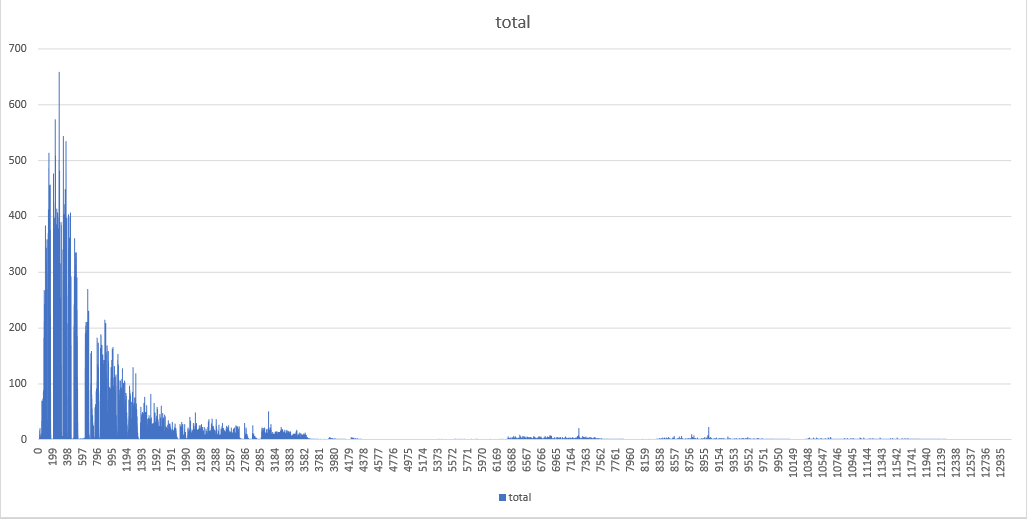
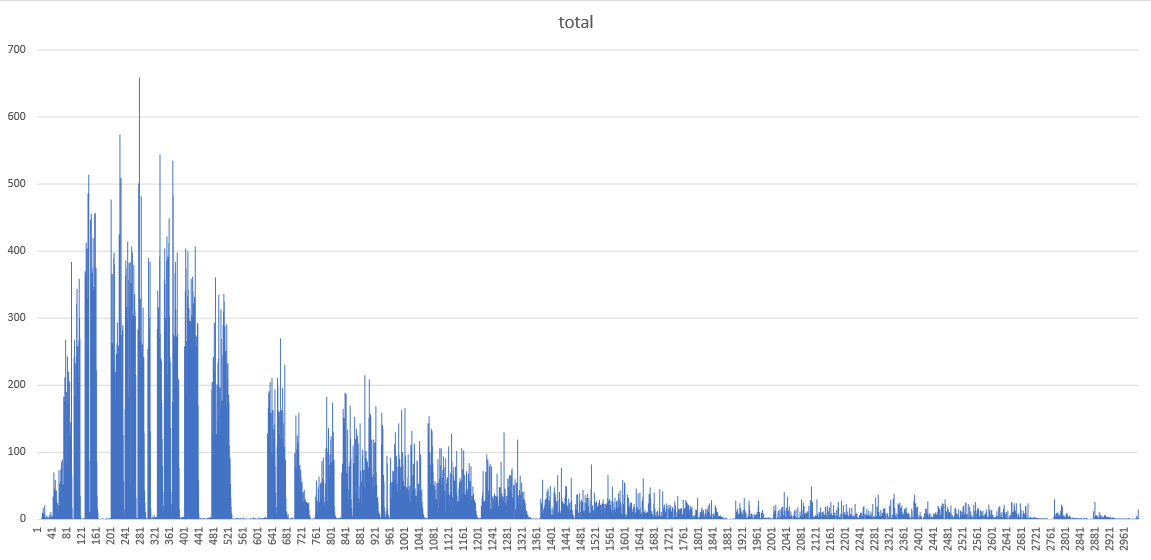
Update on Overleaf.

diff --git a/sections/evaluation.tex b/sections/evaluation.tex
@@ -8,11 +8,93 @@ The graph database was occupying one of the 5 worker nodes, using a special tain
 
 The remaining implementations, e.g. Jenkins, the crawler and the proxy were all scheduled across the remaining 4 nodes.
 
-\todo{write more about what was done, e.g. crawled for two weeks, analyzed for 2 weeks. (cralwed whole range from 0 to 384kb)}
+The byte range of 0 bytes to 384.000 bytes were crawled within two weeks and no additional crawling was done afterwards, meaning the results are purely from one run, which covered all possible bytes that GitHub allows. The analysis took another two weeks and was done after the two weeks of crawling the results to not overload the graph database. The reasoning for this will be explained further down below.
 
 Considering the crawler implementation one can compare the total amount of available "docker-compose" files that the GitHub API provides to the total amount the crawlers have crawled. As already described in the contribution about the crawler \todo{add reference to chapter}, the GitHub API has some limitations that affect the implementation as well. While providing a horizontally scaleable solution, which is only limited by the amount of GitHub tokens supplied, the GitHub API still has some nowhere described complications. This thesis and included test execution were all done under the terms of the GitHub Terms of Services, which states that the crawling of public data is only allowed for scientific works and require the results to be public \todo{quote TOS}. The TOS also states that the usage of the GitHub API is only allowed with a fair usage in mind, meaning one is not allowed to differ too much of the average usage of certain GitHub API routes. Not complying with those rule will likely result in a termination of ones account. During the data collection period, a total of three GitHub accounts were created with the sole purpose of crawling public data, which is only available with a valid GitHub account. Due to the excessive usage of the code search GitHub API route one out of three accounts received a so-called shadow ban. A shadow ban is a system to hide the fact that the user received a temporary termination. A shadow banned user can still use every GitHub API, but the results returned by the API are always empty even though they still conform the expected schema. GitHub as a provider of this free service does not provide any additional documentation about this system. It is not known at which point the account received the shadow ban, but it is to assume that this limitation was applied after the crawling period of two weeks, since the crawler still reported valid results back compared to two weeks later.
 
-Besides this limitation the only other limiting factor was the 16 Gigabyte of memory for a graph database, which turned out to be not an issue by the memory itself, but the graph database had a some blocking operations in the write process, which was heavily relied on. In a recent version this issue was fixed. This issue might have had an impact on the total amount of crawled files, since the database started to block any further insertions. \todo{maybe write about the usage of altering tools}
+Besides this limitation the only other limiting factor was the 16 Gigabyte of memory for a graph database, which turned out to be not an issue by the memory itself, but the graph database had some blocking operations in the write process, which was heavily relied on. In a recent version this issue was fixed. This issue might have had an impact on the total amount of crawled files, since the database started to block any further insertions. To detect those issues a service called Sentry\footnote{https://sentry.io} was used, which sent alerts for not handled issues like the blocking of the database. This might have had an implication on the total amount of crawled files. The community edition of Grakn does not provide any Kubernetes manifests, thereby, manifests and settings have to be created by oneself, which likely results in a not entirely production ready setup, since the production ready setup with multi sharding is only reserved for the commercial usage.
+
+In the following the actual amount of crawled entries will be compared to the possible and total amount of crawled items that the GitHub API returns. Both will be compared to each other by using a column chart.
+
+\begin{figure}[H]
+    \centering
+    \includegraphics[scale=0.5]{graphics/stats_total.png}
+    \caption{Chart representing the total amount of possible results using the GitHub API for the term "docker-compose"}
+    \label{fig:stats_total}
+\end{figure}
+
+The chart \ref{fig:stats_total} represents the total amount of possible results for the term "docker-compose" using only the GitHub API. The Y-Axis represents the total amount of found occurrences and the X-Axis represents bytes. For this graphical representation the range from 0 to 175.000 was used, since between 175 Kilobyte and 384 Kilobyte are only an additional 200 results. There is a total of 1,1 million results in the chart, most of them clustered around the file size of 100 to 200 bytes, which can be explained due to "docker-compose" files being rather simple and short compared to other deployment scripts. 
+
+\begin{figure}[H]
+    \centering
+    \includegraphics[scale=0.5]{graphics/stats_range.png}
+    \caption{Cutout from \ref{fig:stats_total} for the range from 0 to 3000 bytes }
+    \label{fig:stats_range}
+\end{figure}
+
+The cutout from the range 0 to 3000 bytes as seen in figure \ref{fig:stats_range} shows that the most files are in a range from 100 to 400 bytes and then slowly traverses towards 0, with as seen in figure \ref{fig:stats_total} occasional occurrences in a higher byte range. Both charts \ref{fig:stats_total} and \ref{fig:stats_range} represent the best case if GitHub would return more than a 1000 results for a single query and are both incomplete as well, since GitHub will only return the amount of found results till it receives a timeout. Meaning that running the same query twice would likely result in different results, as the API receives a timeout and returns all found results so far. This behaviour occurs as well when querying single pages, since GitHub only allows a maximal result of 100 entries. This could mean that for running one query on page 10 one could receive a 100 results and for another one close to 0, since the API received a timeout before. In case of this thesis this issue was dismissed, as the author has no influence on the actual implementation of GitHub and it could be mitigated by running the crawling process multiple times for the same bytes.
+
+\begin{figure}[H]
+    \centering
+    \includegraphics[scale=0.5]{graphics/stats_range_max_possible.png}
+    \caption{Cutout from \ref{fig:stats_total} for the range from 0 to 3000 bytes, but a maximum of 1000 results }
+    \label{fig:stats_max_possible}
+\end{figure}
+
+The chart in figure \ref{fig:stats_max_possible} shall represent the maximum amount of possible results, that can be crawled, since the GitHub API only returns a maximum of 1000 results for a single query. As explained prior for the chart \ref{fig:stats_range}, this does not mean that one will receive a 1000 results, since the GitHub API is nondeterministic.
+
+Further on, the charts for the actual crawled data will be shown, which resulted in 140.000 valid deployments. Valid, since only parseable deployment files were inserted into the database, see \todo{add reference to the explanation in contribution} in the chapter about the implementation.
+
+\begin{figure}[H]
+    \centering
+    \includegraphics[scale=0.5]{graphics/deployment_stats_total.png}
+    \caption{Chart representing the total amount of possible results using the crawler implementation for the term "docker-compose"}
+    \label{fig:deployment_total}
+\end{figure}
+
+Comparing the figure \ref{fig:stats_total} and the figure \ref{fig:deployment_total}, one may notice a similar representation, which validates the overall implementation, since clusters for similar bytes were successfully crawled with occasional results in the higher byte area.
+The chart \ref{fig:deployment_total} also shows that the maximum crawleable number of a 1000 results was never reached, which could be explained by either the nondeterministic behavior of the GitHub API or the blocking process of the database. On the other hand this could simply be explained by non parseable deployment scripts as well, since a lot of people have especially in the lower byte range scripts that are the bare minimum or contain syntactical issues, which cause the parsing to fail and at the same time render the file useless for the "docker-compose" executable as well, since it can not parse the file either.
+
+\begin{figure}[H]
+    \centering
+    \includegraphics[scale=0.5]{graphics/deployment_stats_range.png}
+    \caption{Cutout from \ref{fig:deployment_total} for the range from 0 to 3000 bytes}
+    \label{fig:deployment_range}
+\end{figure}
+
+The chart \ref{fig:deployment_range} still resembles the chart \ref{fig:stats_range}, but it is visible that that the previously described shadow ban has occurred earlier than expected, since the chart \ref{fig:deployment_range} shows multiple spots where barely any results were returned, e.g. 161-201, 441-481 or 521-641, which mirror the system of a shadow ban. The implementation featured crawler windows, which consisted of a byte range that were individually assigned to each crawler, which in this case could have been assigned to the shadow banned account. During the execution period it was not visible that the account was affected, since it acted as expected and returned results according to the schema.
+
+Overall the GitHub API returned a total amount of 940.000 possible crawleable entries, which can still differ in numbers when actually crawled for due to the way the GitHub API works. A total of 140.000 valid deployment scripts were inserted into the database, which represents 15\% of the total crawleable amount. Limiting factors were in this case the nondeterministic behavior of the GitHub API, the shadow ban system of GitHub and the blocking operations of the graph database. Except the nondeterministic behavior of the GitHub API all other issues can be mitigated for future work, by providing more valid GitHub tokens, which can be switched in case of shadow banned accounts and a more non-blocking graph database. Grakn already provided a patch to resolve the blocking issue, but in the non community edition the graph database can be scaled across multiple Kubernetes nodes as well, since the community edition does not provide any Kubernetes manifests and relied on the implementation of the author.
+
+In total the graph database contains 4,2 million entries, which can be divided into roughly a million nodes, a million edges and two million attributes. Which can be further split down as follows:
+
+\begin{table}[h!]
+    \centering
+    \begin{tabular}{ |c|c| }
+    \hline
+    Type & Amount \\
+    \hline
+         count & 4.279.664 \\
+         attributes & 2.546.547 \\
+         \hline
+         nodes & 836.337 \\
+         \hline
+         user & 127.084 \\
+         repository & 160.506\\
+         deployment & 139.469\\
+         service & 409.277\\
+         \hline
+         edges & 896.780 \\
+         \hline
+         own & 159.834 \\
+         contain & 194.797 \\
+         include & 404.736 \\
+         depend & 137.412 \\
+    \hline
+    \end{tabular}
+    \caption{Graph Database total counts}
+    \label{graph_database_total_counts}
+\end{table}
 
 %Second most important chapter. Verifies the theses defined in the previous chapter. Tries to evaluate and analyze the contribution in qualitative or quantitative terms. Ends with a discussion. Approximately 20 to 30 pages. Can be split into multiple chapters.
 
